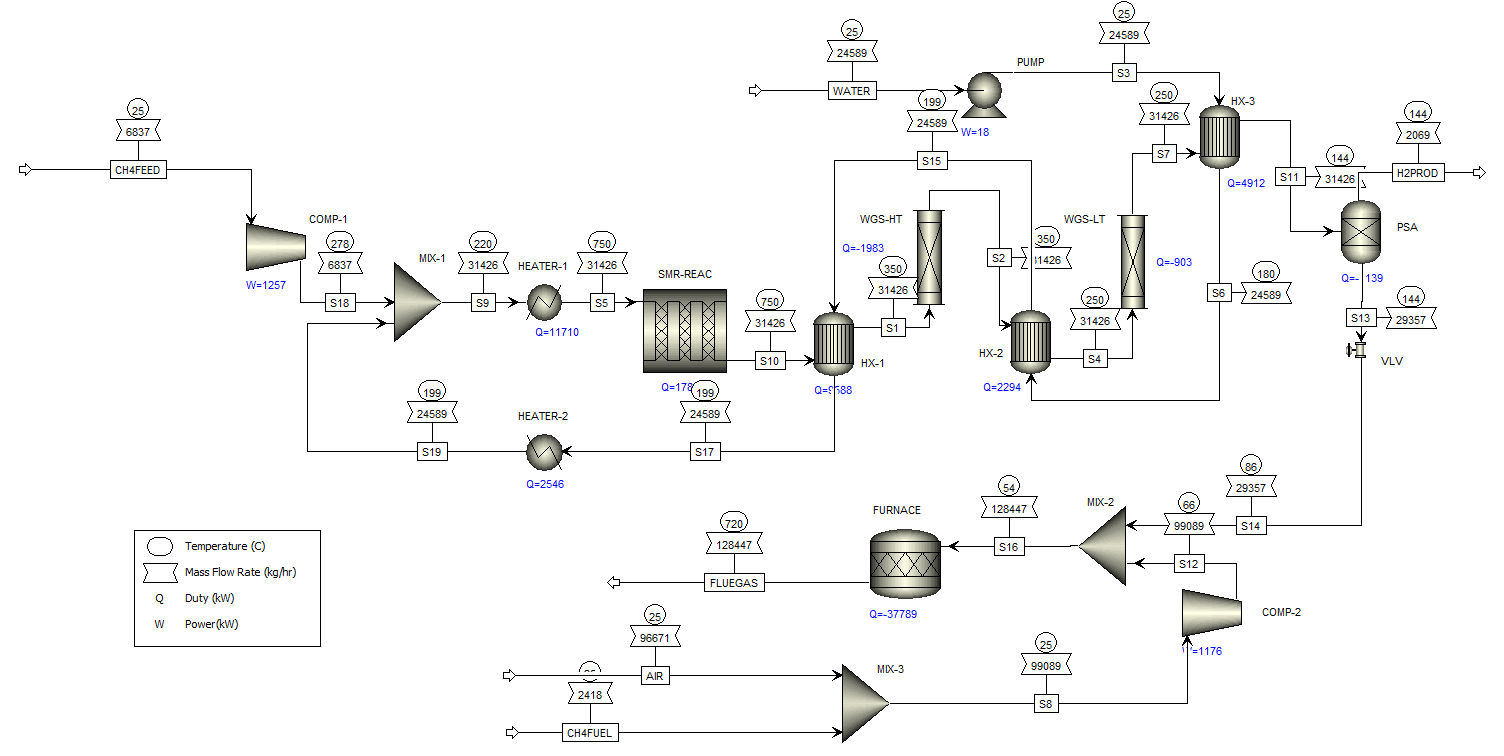
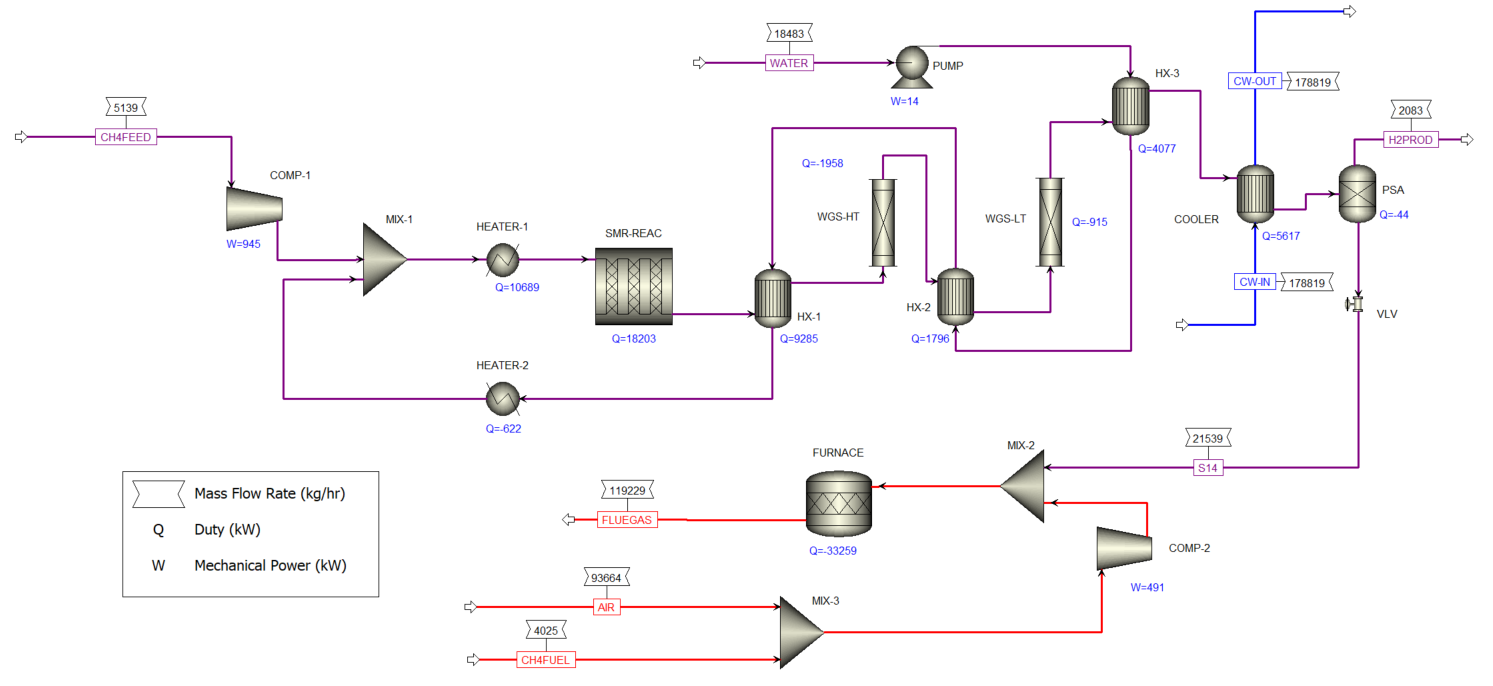
equipment material and construction factors is now  adjustable

diff --git a/src/openpytea/equipment.py b/src/openpytea/equipment.py
@@ -288,6 +288,22 @@ class Equipment:
         Default is None (auto-resolved).
     target_year : int, optional
         Target year for inflation adjustment. Default is 2024.
+    erection_factor : float | None, optional
+        Erection factor override. Default is None (use process_type table).
+    piping_factor : float | None, optional
+        Piping factor override. Default is None (use process_type table).
+    instrumentation_factor : float | None, optional
+        Instrumentation & controls factor override. Default is None.
+    electrical_factor : float | None, optional
+        Electrical factor override. Default is None (use process_type table).
+    civil_factor : float | None, optional
+        Civil factor override. Default is None (use process_type table).
+    structural_factor : float | None, optional
+        Structural steel factor override. Default is None (use process_type table).
+    lagging_factor : float | None, optional
+        Lagging & painting factor override. Default is None (use process_type table).
+    material_factor : float | None, optional
+        Material factor override. Default is None (use material table).
 
     Methods
     -------
@@ -387,10 +403,16 @@ class Equipment:
         num_units: int | None = None,
         purchased_cost: float | None = None,
         cost_year: int | None = None,
-        cost_func: (
-            str | None
-        ) = None,  # explicit correlation key
+        cost_func: str | None = None,
         target_year: int = 2024,
+        erection_factor: float | None = None,
+        piping_factor: float | None = None,
+        instrumentation_factor: float | None = None,
+        electrical_factor: float | None = None,
+        civil_factor: float | None = None,
+        structural_factor: float | None = None,
+        lagging_factor: float | None = None,
+        material_factor: float | None = None,
     ):
 
         self.name = name
@@ -407,9 +429,48 @@ class Equipment:
         )
         self.target_year = target_year
         self._cost_func = cost_func
-        self._db = (
-            CostCorrelationDB()
-        )  # always loads from the fixed CSV file
+        self._db = CostCorrelationDB()
+
+        valid_process_types = list(self.process_factors.keys())
+        if process_type not in self.process_factors:
+            raise ValueError(
+                f"Invalid process_type '{process_type}'. "
+                f"Valid options are: {valid_process_types}"
+            )
+        valid_materials = list(self.material_factors.keys())
+        if material not in self.material_factors:
+            raise ValueError(
+                f"Invalid material '{material}'. "
+                f"Valid options are: {valid_materials}"
+            )
+
+        _pf = self.process_factors[process_type]
+        self.erection_factor = (
+            erection_factor if erection_factor is not None else _pf["fer"]
+        )
+        self.piping_factor          = (
+            piping_factor          if piping_factor          is not None else _pf["fp"]
+        )
+        self.instrumentation_factor = (
+            instrumentation_factor if instrumentation_factor is not None else _pf["fi"]
+        )
+        self.electrical_factor      = (
+            electrical_factor      if electrical_factor      is not None else _pf["fel"]
+        )
+        self.civil_factor           = (
+            civil_factor           if civil_factor           is not None else _pf["fc"]
+        )
+        self.structural_factor      = (
+            structural_factor      if structural_factor      is not None else _pf["fs"]
+        )
+        self.lagging_factor         = (
+            lagging_factor         if lagging_factor         is not None else _pf["fl"]
+        )
+        self.material_factor = (
+            material_factor
+            if material_factor is not None
+            else self.material_factors[material]
+        )
 
         if purchased_cost is not None:
             self.purchased_cost = purchased_cost
@@ -456,29 +517,15 @@ class Equipment:
         )
 
     def calculate_direct_cost(self) -> float:
-
-        if self.process_type not in self.process_factors:
-            raise ValueError(
-                f"Process type not found: {self.process_type}"
-            )
-
-        if self.material not in self.material_factors:
-            raise ValueError(
-                f"Material not found: {self.material}"
-            )
-
-        factors = self.process_factors[self.process_type]
-        fm = self.material_factors[self.material]
-
         self.direct_cost = self.purchased_cost * (
-            (1 + factors["fp"]) * fm
+            (1 + self.piping_factor) * self.material_factor
             + (
-                factors["fer"]
-                + factors["fel"]
-                + factors["fi"]
-                + factors["fc"]
-                + factors["fs"]
-                + factors["fl"]
+                self.erection_factor
+                + self.electrical_factor
+                + self.instrumentation_factor
+                + self.civil_factor
+                + self.structural_factor
+                + self.lagging_factor
             )
         )
         return self.direct_cost